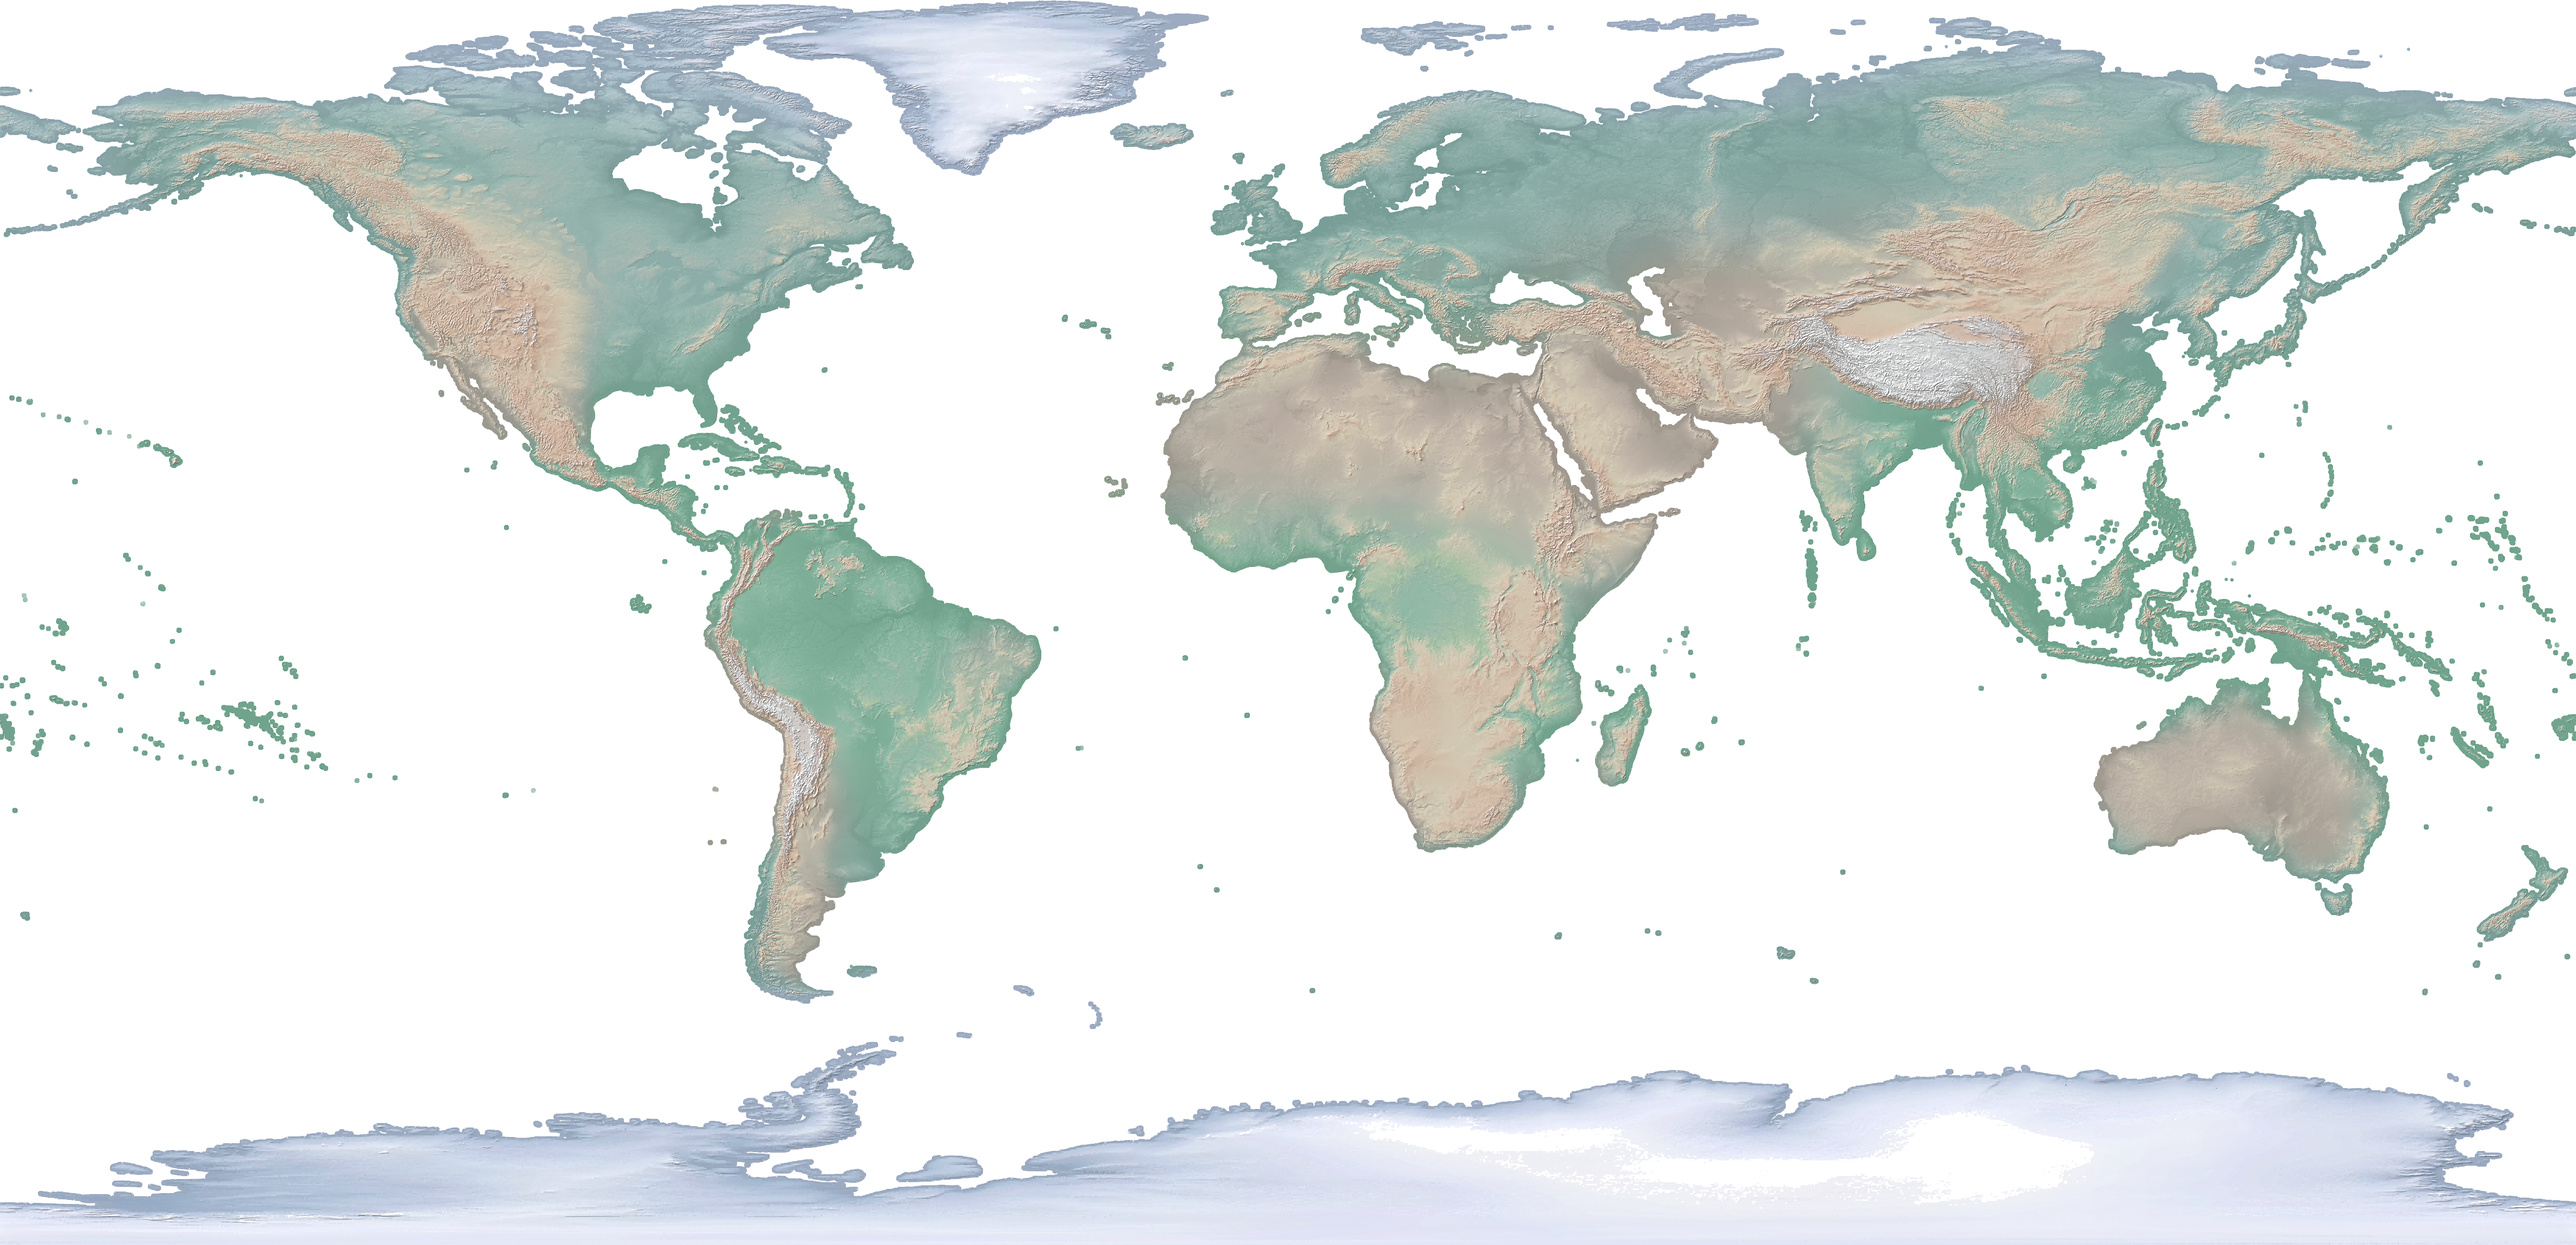
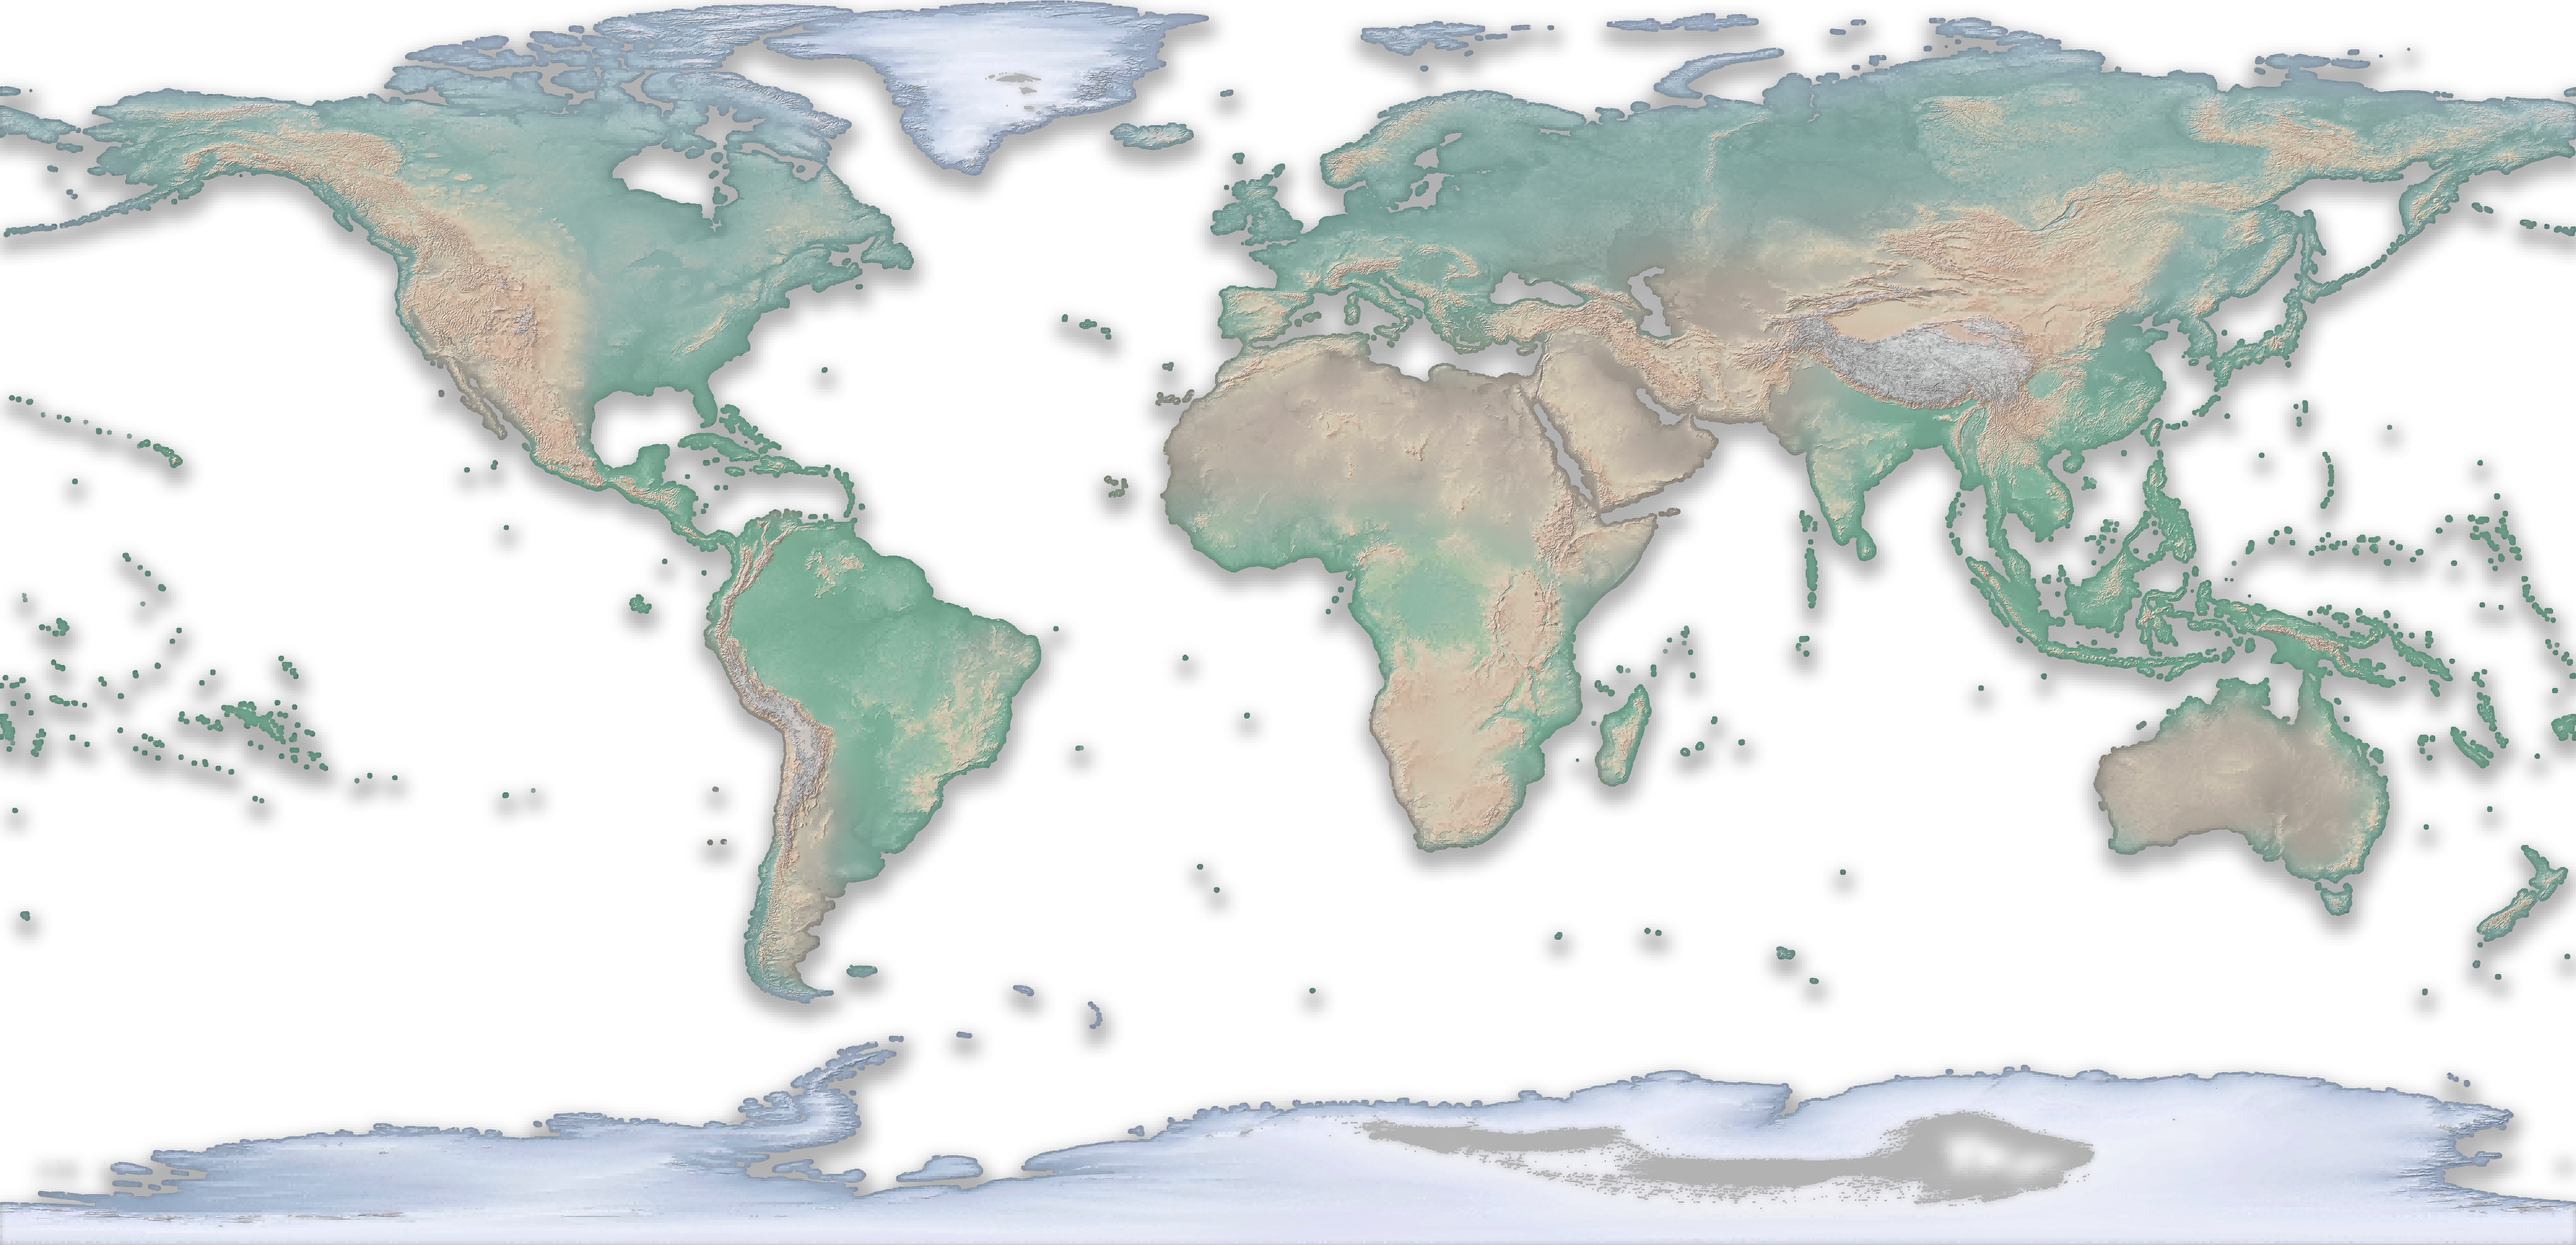
增加了sec4的跳转逻辑

diff --git a/style.css b/style.css
@@ -391,7 +391,7 @@
   z-index: 0;
   pointer-events: none;
   opacity: 0;
-  transition: opacity 1s ease 0.5s; /* 延迟 0.5 秒 */
+  transition: opacity 1s ease 0.2s; /* 延迟 0.2 秒 */
 }
 
 .earth-flat {
@@ -401,6 +401,16 @@
   object-fit: contain;
   filter: grayscale(60%) brightness(0.85) contrast(0.9);
 }
+
+.earth-flat {
+  width: 110vw;
+  max-width: 1600px;
+  height: auto;
+  object-fit: contain;
+  filter: brightness(0.9) contrast(1.05);
+  box-shadow: 0 25px 60px rgba(0, 0, 0, 0.55);
+}
+
 
 /* 滚动到 section4 时显示 */
 .earth-flat-container.visible {
@@ -422,3 +432,44 @@
   animation: globeExpandFade 1s ease forwards;
   z-index: 3;
 }
+
+/* sec4的跳转点 */
+.earth-flat-hotspot {
+  position: absolute;
+  width: 18px;
+  height: 18px;
+  border-radius: 50%;
+  background: rgba(0, 0, 0, 0.7);
+  box-shadow: 0 0 8px rgba(255, 255, 255, 0.8);
+  cursor: pointer;
+  pointer-events: auto;
+  z-index: 10;
+  transition: transform 0.2s ease;
+}
+
+.earth-flat-hotspot:hover {
+  transform: scale(1.3);
+}
+
+/* 🔽 Hover 提示文字 */
+.earth-flat-hotspot::after {
+  content: attr(data-label);
+  position: absolute;
+  top: -30px;
+  left: 50%;
+  transform: translateX(-50%);
+  background: rgba(0, 0, 0, 0.7);
+  color: #fff5dd;
+  padding: 4px 8px;
+  border-radius: 4px;
+  font-size: 0.75rem;
+  white-space: nowrap;
+  opacity: 0;
+  pointer-events: none;
+  transition: opacity 0.2s ease;
+}
+
+.earth-flat-hotspot:hover::after {
+  opacity: 1;
+}
+

diff --git a/index.html b/index.html
@@ -41,6 +41,7 @@
     <!-- 皮都展开了 -->
     <div class="earth-flat-container">
       <img src="image/flat.png" alt="flat earth" class="earth-flat" />
+      <div class="earth-flat-hotspot" style="top: 40%; left: 60%;" onclick="window.location.href='1.html'" data-label="1"></div>
     </div>
     
     <!-- 首页 -->
@@ -125,7 +126,7 @@
         <div class="section-content">
         <h1>Culture</h1>
         <p>这里是文化页。</p>
-        <a class="btn" href="detail4.html">Click For More</a> <!--换路径-->
+
         </div>
     </section>
 
